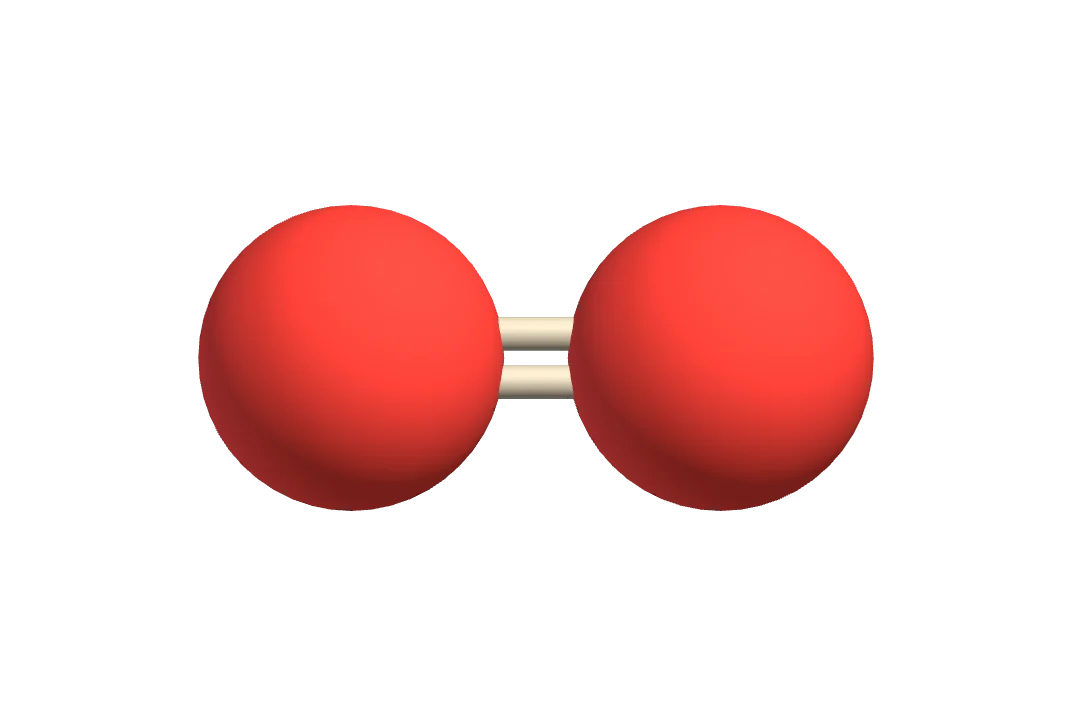
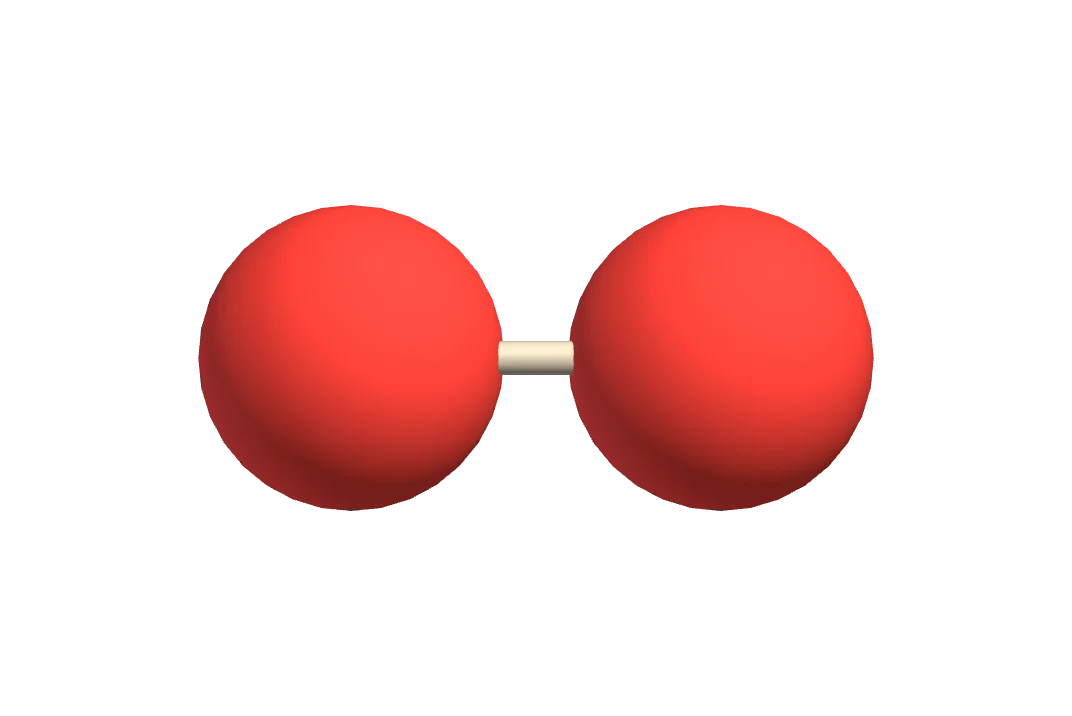
molview: flatPose returns a rotation for a degenerate cloud
Methane's one heavy atom leaves the covariance all zeros, whose leading
eigenvector is [0,0,0]; the zero matrix built from it makes a quaternion
of length 0.5, and three composes a mesh matrix from the quaternion
without normalising — so every atom drew as an ellipsoid that turned with
the model, and the still was baked a quarter size. One heavy atom takes
identity, a linear one its long axis and any perpendicular. Re-baked the
five stills it reached: water, ammonia, methane, O2, CO2.

Changed region(s): [[0.4618, 0.4302, 0.5541, 0.5838]]

diff --git a/demos/lib/molview.js b/demos/lib/molview.js
@@ -159,19 +159,31 @@ function flatPose(spec){
     for(let i=0;i<3;i++) for(let j=0;j<3;j++) C[i][j]+=d[i]*d[j]; });
   const mul=(M,v)=>[0,1,2].map(i=>M[i][0]*v[0]+M[i][1]*v[1]+M[i][2]*v[2]);
   const dot=(a,b)=>a[0]*b[0]+a[1]*b[1]+a[2]*b[2];
-  const unit=v=>{ const l=Math.hypot(...v)||1; return v.map(x=>x/l); };
+  // null for a vector with no direction, so a degenerate axis is answerable
+  // rather than silently [0,0,0] — see the fallbacks below.
+  const unit=v=>{ const l=Math.hypot(...v); return l>1e-9 ? v.map(x=>x/l) : null; };
+  const cross=(a,b)=>[a[1]*b[2]-a[2]*b[1], a[2]*b[0]-a[0]*b[2], a[0]*b[1]-a[1]*b[0]];
   // power iteration, deflating after each axis — three eigenvectors is small
   // enough that a full solver would be more code than it is worth
   const axis=(M,seed)=>{ let v=unit(seed);
-    for(let k=0;k<80;k++) v=unit(mul(M,v)); return v; };
-  const e1=axis(C,[1,0.3,0.1]);
+    for(let k=0;k<80;k++){ const n=unit(mul(M,v)); if(!n) return null; v=n; }
+    return v; };
+  /* A CLOUD WITH NO SPREAD HAS NO PCA, AND WHAT FALLS OUT IS NOT A ROTATION.
+     Methane's one heavy atom leaves the covariance all zeros, whose leading
+     "eigenvector" is [0,0,0]; the zero matrix built from it makes a quaternion
+     of length 0.5, and three composes a mesh's matrix from the quaternion
+     WITHOUT normalising — so every atom drew as an ellipsoid that turned with
+     the model. It reached exactly the molecules with too few heavy atoms to
+     span a plane: water, ammonia, methane (one), O2 (two), CO2 (three, in a
+     line). A single heavy atom has no orientation to find, so identity; a
+     linear one has its long axis and any perpendicular will do for the rest. */
+  const e1=axis(C,[1,0.3,0.1]) || [1,0,0];
   // deflate e1 out, then the next-widest direction is the leading eigenvector
   const D=C.map((row,i)=>row.map((x,j)=>x-dot(mul(C,e1),e1)*e1[i]*e1[j]));
-  let e2=axis(D,[0.2,1,0.4]);
-  e2=unit(e2.map((x,i)=>x-dot(e2,e1)*e1[i]));          // re-orthogonalise
-  const e3=[e1[1]*e2[2]-e1[2]*e2[1],                   // right-handed, always
-            e1[2]*e2[0]-e1[0]*e2[2],
-            e1[0]*e2[1]-e1[1]*e2[0]];
+  const e2raw=axis(D,[0.2,1,0.4]);
+  const e2=(e2raw && unit(e2raw.map((x,i)=>x-dot(e2raw,e1)*e1[i])))   // re-orthogonalise
+        || unit(cross(e1, Math.abs(e1[0])<0.9 ? [1,0,0] : [0,1,0]));
+  const e3=cross(e1,e2);                               // right-handed, always
   // rows e1,e2,e3 — the rotation that sends the molecule's own axes to screen
   const M=new THREE.Matrix4().set(e1[0],e1[1],e1[2],0,
                                   e2[0],e2[1],e2[2],0,
